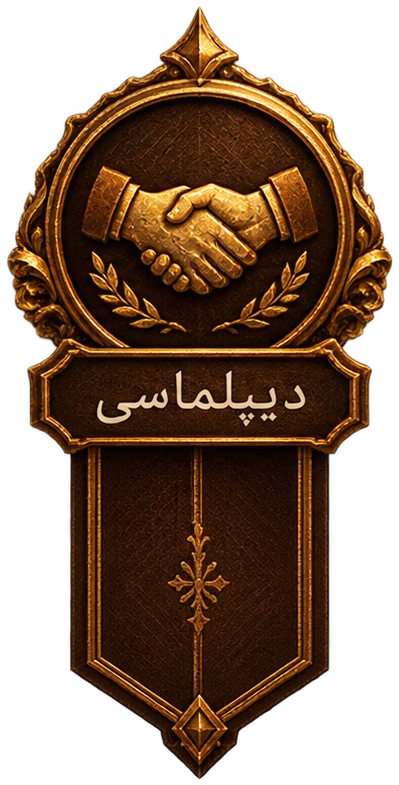
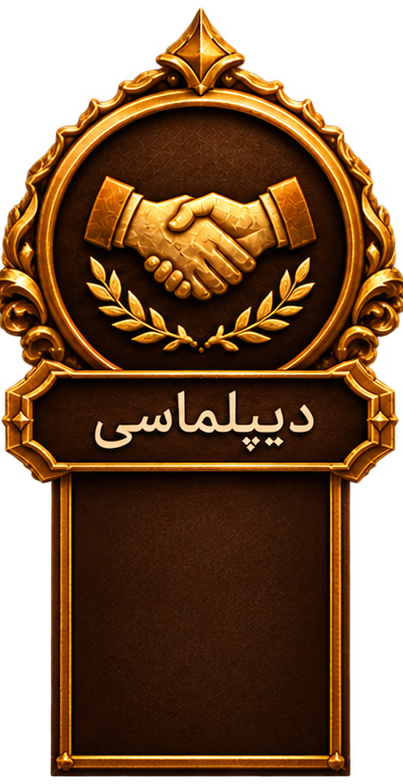
رفعِ باگهای نوارها: طرحِ جدیدِ Sagsa (پنلِ مستطیلی)، مخفی تو منو، Fill درستِ داخلِ کادر
- تصاویرِ بج از Sagsa.png (پنلِ پایینیِ مستطیلی، نه نوکتیز) برش خورد و جایگزینِ نسخهی قبلی شد
- کسرهای Fill از روی تصویر اندازهگیری شد تا طلایی دقیقاً داخلِ پنل بمونه و از کادر نزنه بیرون
  (L=0.16 R=0.84 B=0.03 T=0.43) + رنگِ طلاییِ بهتر
- رفعِ باگِ «نوارها تو منو دیده میشدن»: بجها تا CardSwipe.BeginGame مخفیان و اونجا SetVisible میشن

Claude-Session: https://claude.ai/code/session_0183zQMTMG29wGLisZpLxgyr

diff --git a/Assets/Script/StatBarUI.cs b/Assets/Script/StatBarUI.cs
@@ -22,17 +22,17 @@ public class StatBarUI : MonoBehaviour
     [Tooltip("فاصلهی بج از بالای صفحه (پیکسل)")]
     [SerializeField] private float topMargin = 30f;
 
-    [Header("محدودهی پُرشدنِ طلایی داخلِ بج (کسری از خودِ تصویرِ بج)")]
-    [Tooltip("لبهی چپِ پنلِ پایینی (۰ تا ۱)")]
-    [SerializeField] private float fillLeftFrac = 0.30f;
-    [SerializeField] private float fillRightFrac = 0.70f;
+    [Header("محدودهی پُرشدنِ طلایی داخلِ پنلِ مستطیلیِ پایین (کسری از خودِ تصویرِ بج)")]
+    [Tooltip("لبهی چپِ پنلِ پایینی (۰ تا ۱) — اندازهگیریشده از روی تصویرِ Sagsa")]
+    [SerializeField] private float fillLeftFrac = 0.16f;
+    [SerializeField] private float fillRightFrac = 0.84f;
     [Tooltip("کفِ پنلِ پایینی از پایینِ تصویر (۰ تا ۱)")]
-    [SerializeField] private float fillBottomFrac = 0.06f;
+    [SerializeField] private float fillBottomFrac = 0.03f;
     [Tooltip("سقفِ پنلِ پایینی از پایینِ تصویر (۰ تا ۱)")]
-    [SerializeField] private float fillTopFrac = 0.42f;
+    [SerializeField] private float fillTopFrac = 0.43f;
 
     [Header("رنگها و اندازه")]
-    [SerializeField] private Color fillColor = new Color(0.92f, 0.71f, 0.28f, 1f); // طلایی
+    [SerializeField] private Color fillColor = new Color(0.90f, 0.66f, 0.20f, 1f); // طلاییِ گرم
     [SerializeField] private float valueFontSize = 34f;
 
     public GameStats.StatType StatType => statType;
@@ -40,6 +40,7 @@ public class StatBarUI : MonoBehaviour
     private RectTransform fillRT;   // بخشِ طلاییِ پرشونده — ارتفاعش با مقدارِ شاخص عوض میشه
     private TMP_Text valueText;     // عددِ شاخص
     private TMP_Text hintRuntime;   // +/- که بعد از تصمیم نشون داده میشه
+    private GameObject badgeGO;     // خودِ بج — تا شروعِ بازی مخفیه (تو منو دیده نشه)
 
     void Start()
     {
@@ -95,7 +96,7 @@ public class StatBarUI : MonoBehaviour
         }
 
         // خودِ بج — بالای صفحه، وسطِ اسلاتِ افقیِ خودش
-        GameObject badgeGO = new GameObject("Badge_" + statType, typeof(RectTransform));
+        badgeGO = new GameObject("Badge_" + statType, typeof(RectTransform));
         badgeGO.transform.SetParent(canvas.transform, false);
         RectTransform badgeRT = badgeGO.GetComponent<RectTransform>();
         float xFrac = SlotXFraction(statType);
@@ -146,6 +147,15 @@ public class StatBarUI : MonoBehaviour
         hintRuntime.outlineWidth = 0.25f;
         hintRuntime.outlineColor = new Color(0f, 0f, 0f, 1f);
         hintRuntime.gameObject.SetActive(false);
+
+        // تا شروعِ بازی بج مخفیه تا تو منوی اصلی دیده نشه (CardSwipe.BeginGame نشونش میده)
+        badgeGO.SetActive(false);
+    }
+
+    // با شروعِ بازی (CardSwipe.BeginGame) صدا زده میشه تا نوارها ظاهر بشن
+    public void SetVisible(bool visible)
+    {
+        if (badgeGO != null) badgeGO.SetActive(visible);
     }
 
     TMP_Text CreatePlainText(Transform parent, string name, float size, FontStyles style)

diff --git a/Assets/Script/CardSwipe.cs b/Assets/Script/CardSwipe.cs
@@ -190,6 +190,10 @@ public class CardSwipe : MonoBehaviour
         ShowSwipeIndicators(true);
         ResetSwipeIndicators();
 
+        // نوارهای وضعیت تا اینجا مخفی بودن (تو منو دیده نشن)؛ حالا با شروعِ بازی نشونشون بده
+        if (statBars != null)
+            foreach (var bar in statBars) if (bar != null) bar.SetVisible(true);
+
         // کارنامهی پایانِ ماه رو (یهبار) بساز و مخفی نگهدار
         if (monthReport == null)
         {

diff --git a/CLAUDE.md b/CLAUDE.md
@@ -123,7 +123,8 @@
 - **Fill Area:** پنلِ پایینیِ بج با کسرهای `fillLeftFrac`/`fillRightFrac`/`fillBottomFrac`/`fillTopFrac` (نسبت به خودِ تصویرِ بج) تعریف میشه؛ داخلش یه Imageِ طلایی (`fillColor`) هست که `anchorMax.y`ش با مقدارِ شاخص (۰..۱۰۰) از پایین به بالا پر میشه (`SetFill`). این کسرها تو Inspector قابلِ تنظیمن اگه Fill دقیقاً رو پنل نیفتاد.
 - **عدد شاخص:** وسطِ پنل، با رقمِ فارسی (`ToPersian`)، سفیدِ bold با outline.
 - **متنِ +/- (بعد از تصمیم):** `ShowHint(amount)`/`HideHint()` که CardSwipe صداشون میزنه، یه متنِ سبز/قرمز بالای پنل نشون میده (طبقِ خواستهی «اثر بعد از انتخاب»).
-- **نکته:** چون بجها موقعِ اجرا روی Canvas ساخته میشن، پنلهای تمامصفحه (منو/پایان بازی/کارنامه) موقعِ نمایش `SetAsLastSibling()` میشن تا روی بجها بیفتن و پشتشون قایم نشن.
+- **مخفی تا شروعِ بازی (رفعِ باگ):** بجها موقعِ ساخت **غیرفعال** میمونن و فقط تو `CardSwipe.BeginGame()` (با `SetVisible(true)`) روشن میشن — چون قبلاً تو منوی اصلی دیده میشدن (بج بعد از پنلِ منو ساخته میشد و روش میافتاد). پنلهای تمامصفحه هم موقعِ نمایش `SetAsLastSibling()` میشن.
+- **تصاویرِ بج از `Sagsa.png`:** طرحِ نهایی (`Assets/Art/Sagsa.png`، ۱۷۷۴×۸۸۷) که پنلِ پایینیِ **مستطیلی** داره (نه نوکتیز، تا Fill از کادر نزنه بیرون) به ۴ بج برش خورد و تو `Resources/Bars/` جایگزین شد. کسرهای Fill از روی همین تصویر اندازهگیری شدن (پیشفرض: L=0.16, R=0.84, B=0.03, T=0.43).
 
 ### GameOverUI.cs — صفحهی پایان بازی (باخت/پیروزی)
 - رو `GameManager` نصب شده، سه فیلد داره: `Persian Font`، `Target Canvas`، و `Card Swipe` (برای دکمهی تبلیغ)
